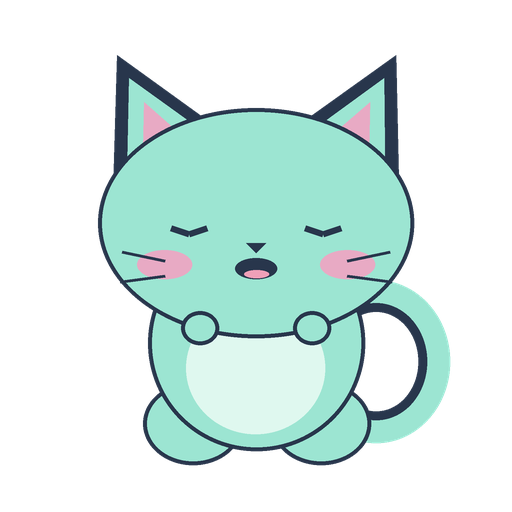
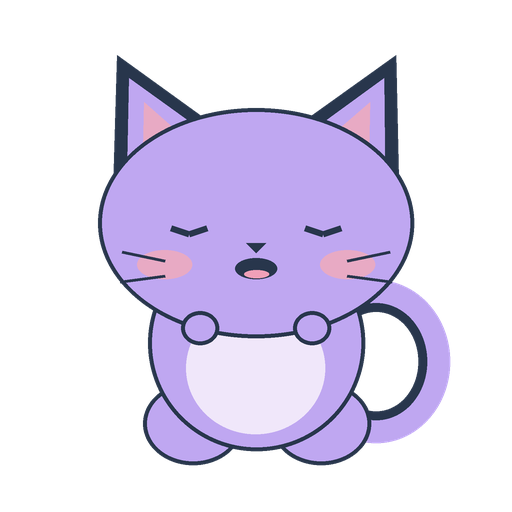
fix: make Windows QA encoding portable and avoid chroma color overlap

Changed region(s): [[0.1875, 0.1562, 0.9062, 0.9062]]

diff --git a/harness/scripts/generate_character.py b/harness/scripts/generate_character.py
@@ -16,7 +16,7 @@ def sprite(mouth, blink):
     def ellipse(box, fill, outline=None, width=4): d.ellipse(coords(box), fill, outline, width * SCALE)
     def polygon(points, fill): d.polygon([(int(x*SCALE), int(y*SCALE)) for x,y in points], fill)
     def line(points, fill, width=4): d.line([(int(x*SCALE), int(y*SCALE)) for x,y in points], fill, width*SCALE)
-    ink, fur, light = "#28364C", "#9CE5D2", "#DFF8EF"
+    ink, fur, light = "#28364C", "#BFA7F1", "#F0E7FA"
     # Tail, feet, belly, ears and head share fixed anchors across all states.
     d.arc(coords((302,280,450,443)), 230, 520, fill=ink, width=32*SCALE)
     d.arc(coords((302,280,450,443)), 230, 520, fill=fur, width=23*SCALE)
@@ -50,6 +50,6 @@ def sprite(mouth, blink):
 for mouth in ("closed", "half", "open"):
     for blink in (False, True):
         sprite(mouth, blink).save(TARGET / f"{mouth}{'-blink' if blink else ''}.png")
-manifest = {"name":"Mint Cat", "size":[512,512], "anchor":[256,465], "states":[f"{m}{b}.png" for m in ("closed","half","open") for b in ("","-blink")], "source":"Original geometric artwork generated by harness/scripts/generate_character.py for VoxPet", "license":"CC0-1.0", "licenseUrl":"https://creativecommons.org/publicdomain/zero/1.0/", "attributionRequired":False}
+manifest = {"name":"Violet Cat", "size":[512,512], "anchor":[256,465], "states":[f"{m}{b}.png" for m in ("closed","half","open") for b in ("","-blink")], "source":"Original geometric artwork generated by harness/scripts/generate_character.py for VoxPet", "license":"CC0-1.0", "licenseUrl":"https://creativecommons.org/publicdomain/zero/1.0/", "attributionRequired":False}
 (TARGET / 'manifest.json').write_text(json.dumps(manifest, ensure_ascii=False, indent=2)+'\n', encoding='utf-8')
 print("Generated 6 original 512×512 transparent PNG states")
